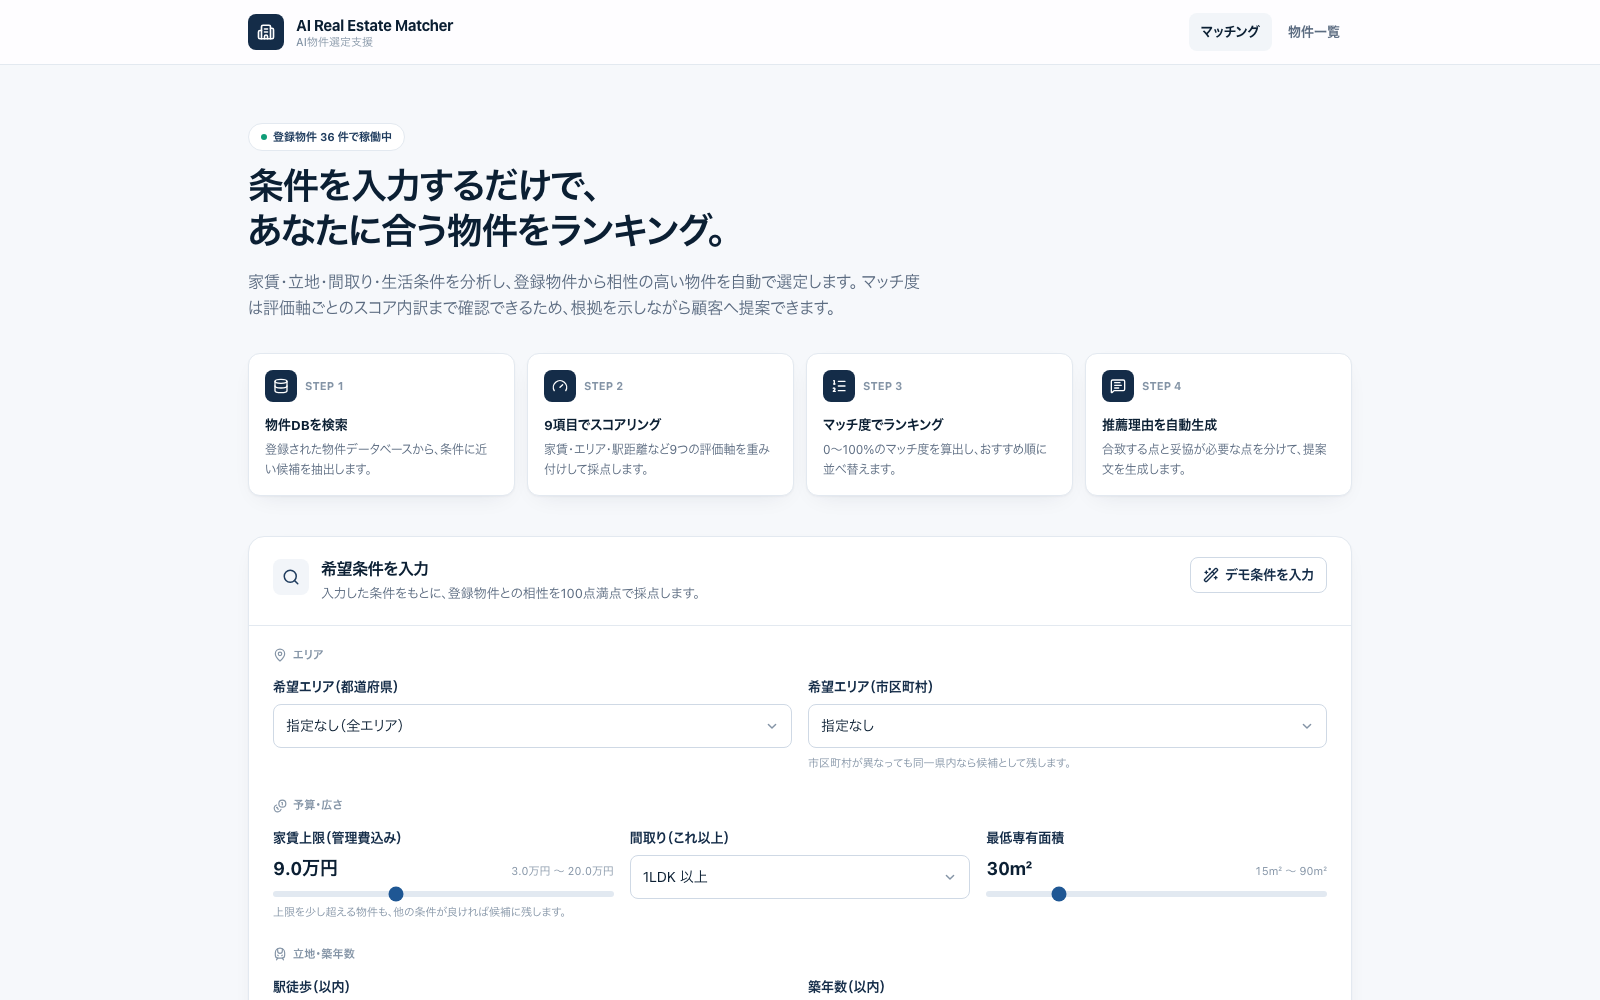
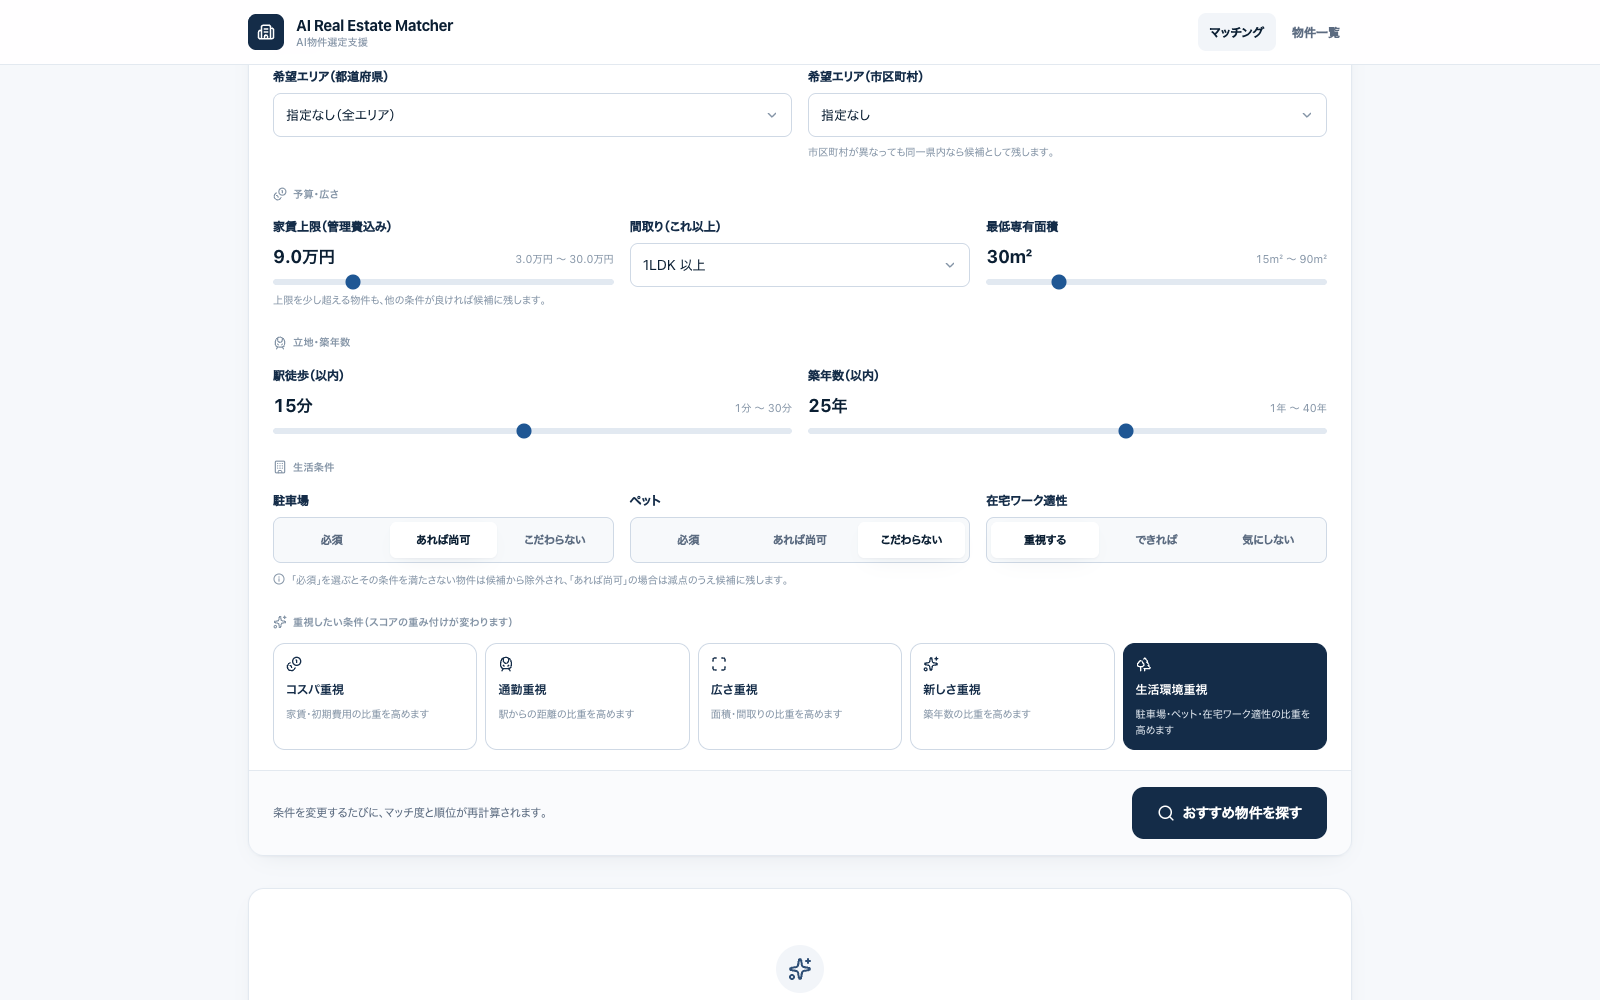
feat: expand AI Real Estate Matcher nationwide
- Expand fictional property data to all 47 prefectures
- Generate 188 deterministic fictional properties
- Add nationwide demo presets
- Improve accessibility for preference controls
- Update nationwide UI copy and README
- Add dataset, matching, and HTTP verification tests
- Seed and verify the production Supabase database

diff --git a/app/data/projects.ts b/app/data/projects.ts
@@ -205,7 +205,7 @@ export const projects: readonly Project[] = [
     solution:
       '希望条件を入力すると、登録物件を複数の評価軸で採点し、ユーザーの重視条件に応じて配点を調整しながら、最適な物件をおすすめ順にランキングします。',
     features: [
-      'Supabase PostgreSQLによる36件の架空物件データベース',
+      '全国47都道府県・架空188物件のSupabase PostgreSQLデータベース',
       '家賃・エリア・駅徒歩・間取り・面積・築年数・駐車場・ペット・在宅ワーク適性の9軸スコアリング',
       '重視条件による動的な重み付けと0〜100%のマッチ度算出',
       '一部条件から外れた物件も総合評価で候補に残すソフトマッチング',
@@ -247,7 +247,7 @@ export const projects: readonly Project[] = [
       },
     ],
     outcome: [
-      '36件の架空物件を対象に、希望条件の入力からTOP3ランキング表示まで一連で動作することを確認',
+      '全国47都道府県・架空188物件を対象に、希望条件の入力からTOP3ランキング表示まで一連で動作することを確認',
       '重視条件を切り替えると、評価軸の配点・マッチ度・順位が再計算されることを確認',
       '公開環境でVercelからSupabase PostgreSQLの本番DBへ接続できることを確認',
       'PC・スマートフォンの両方で検索・詳細確認・物件比較が利用できることを確認',
@@ -287,10 +287,10 @@ export const projects: readonly Project[] = [
     tint: '#081624',
     image: '/works/images/ai-real-estate-matcher-card.png',
     imageAlt:
-      'AI Real Estate MatcherのおすすめTOP3画面。36件の物件データから選ばれた候補と、91%のマッチ度、条件に合っている点、妥協点が表示されている',
+      'AI Real Estate MatcherのおすすめTOP3画面。全国188件の架空物件データから選ばれた候補と、87%のマッチ度、条件に合っている点、妥協点が表示されている',
     imagePosition: 'center top',
     galleryNote:
-      '公開中の実画面です。条件入力と、36件の架空物件データを採点したランキング結果を掲載しています。',
+      '公開中の実画面です。条件入力と、全国47都道府県・架空188物件を採点したランキング結果を掲載しています。',
     gallery: [
       {
         src: '/works/images/ai-real-estate-matcher/01-conditions.png',

diff --git a/app/works/ai-real-estate-matcher/page.tsx b/app/works/ai-real-estate-matcher/page.tsx
@@ -15,7 +15,7 @@ const project = projects.find((entry) => entry.id === PROJECT_ID)
 
 const title = 'AI Real Estate Matcher｜条件に合う物件をランキングする選定支援ツール — AIC'
 const description =
-  '希望条件と36件の物件データを9軸で採点し、重視条件に応じた0〜100%のマッチ度、おすすめTOP3、推薦理由、条件に合う点と妥協点を表示する物件選定支援ツールです。'
+  '希望条件と全国47都道府県・架空188物件を9軸で採点し、重視条件に応じた0〜100%のマッチ度、おすすめTOP3、推薦理由、条件に合う点と妥協点を表示する物件選定支援ツールです。'
 
 export const metadata: Metadata = {
   title,
@@ -130,7 +130,7 @@ export default function AiRealEstateMatcherPage() {
                 {STATUS_LABEL[project.status]}
               </span>
               <span className="border border-white/10 bg-white/[0.02] px-2.5 py-1 text-[10px] font-semibold tracking-[0.1em] text-white/58">
-                36件の架空物件データで稼働中
+                全国47都道府県・架空188物件で稼働中
               </span>
             </div>
 

diff --git a/tests/portfolio.spec.ts b/tests/portfolio.spec.ts
@@ -353,7 +353,7 @@ test.describe('detail pages retain the removed information', () => {
       await expect(page.getByRole('heading', { name: '解決', exact: true })).toBeAttached()
       await expect(page.getByRole('heading', { name: '特徴', exact: true })).toBeAttached()
       await expect(page.getByRole('heading', { name: '技術的ポイント', exact: true })).toBeAttached()
-      await expect(page.getByText('36件の架空物件データベース', { exact: false })).toBeAttached()
+      await expect(page.getByText('全国47都道府県・架空188物件のSupabase PostgreSQLデータベース', { exact: false })).toBeAttached()
       await expect(page.getByText('業務ロジックを組み合わせた選定フロー')).toBeAttached()
 
       await expect(page.getByRole('link', { name: /実際に見る/ }).first()).toHaveAttribute(
